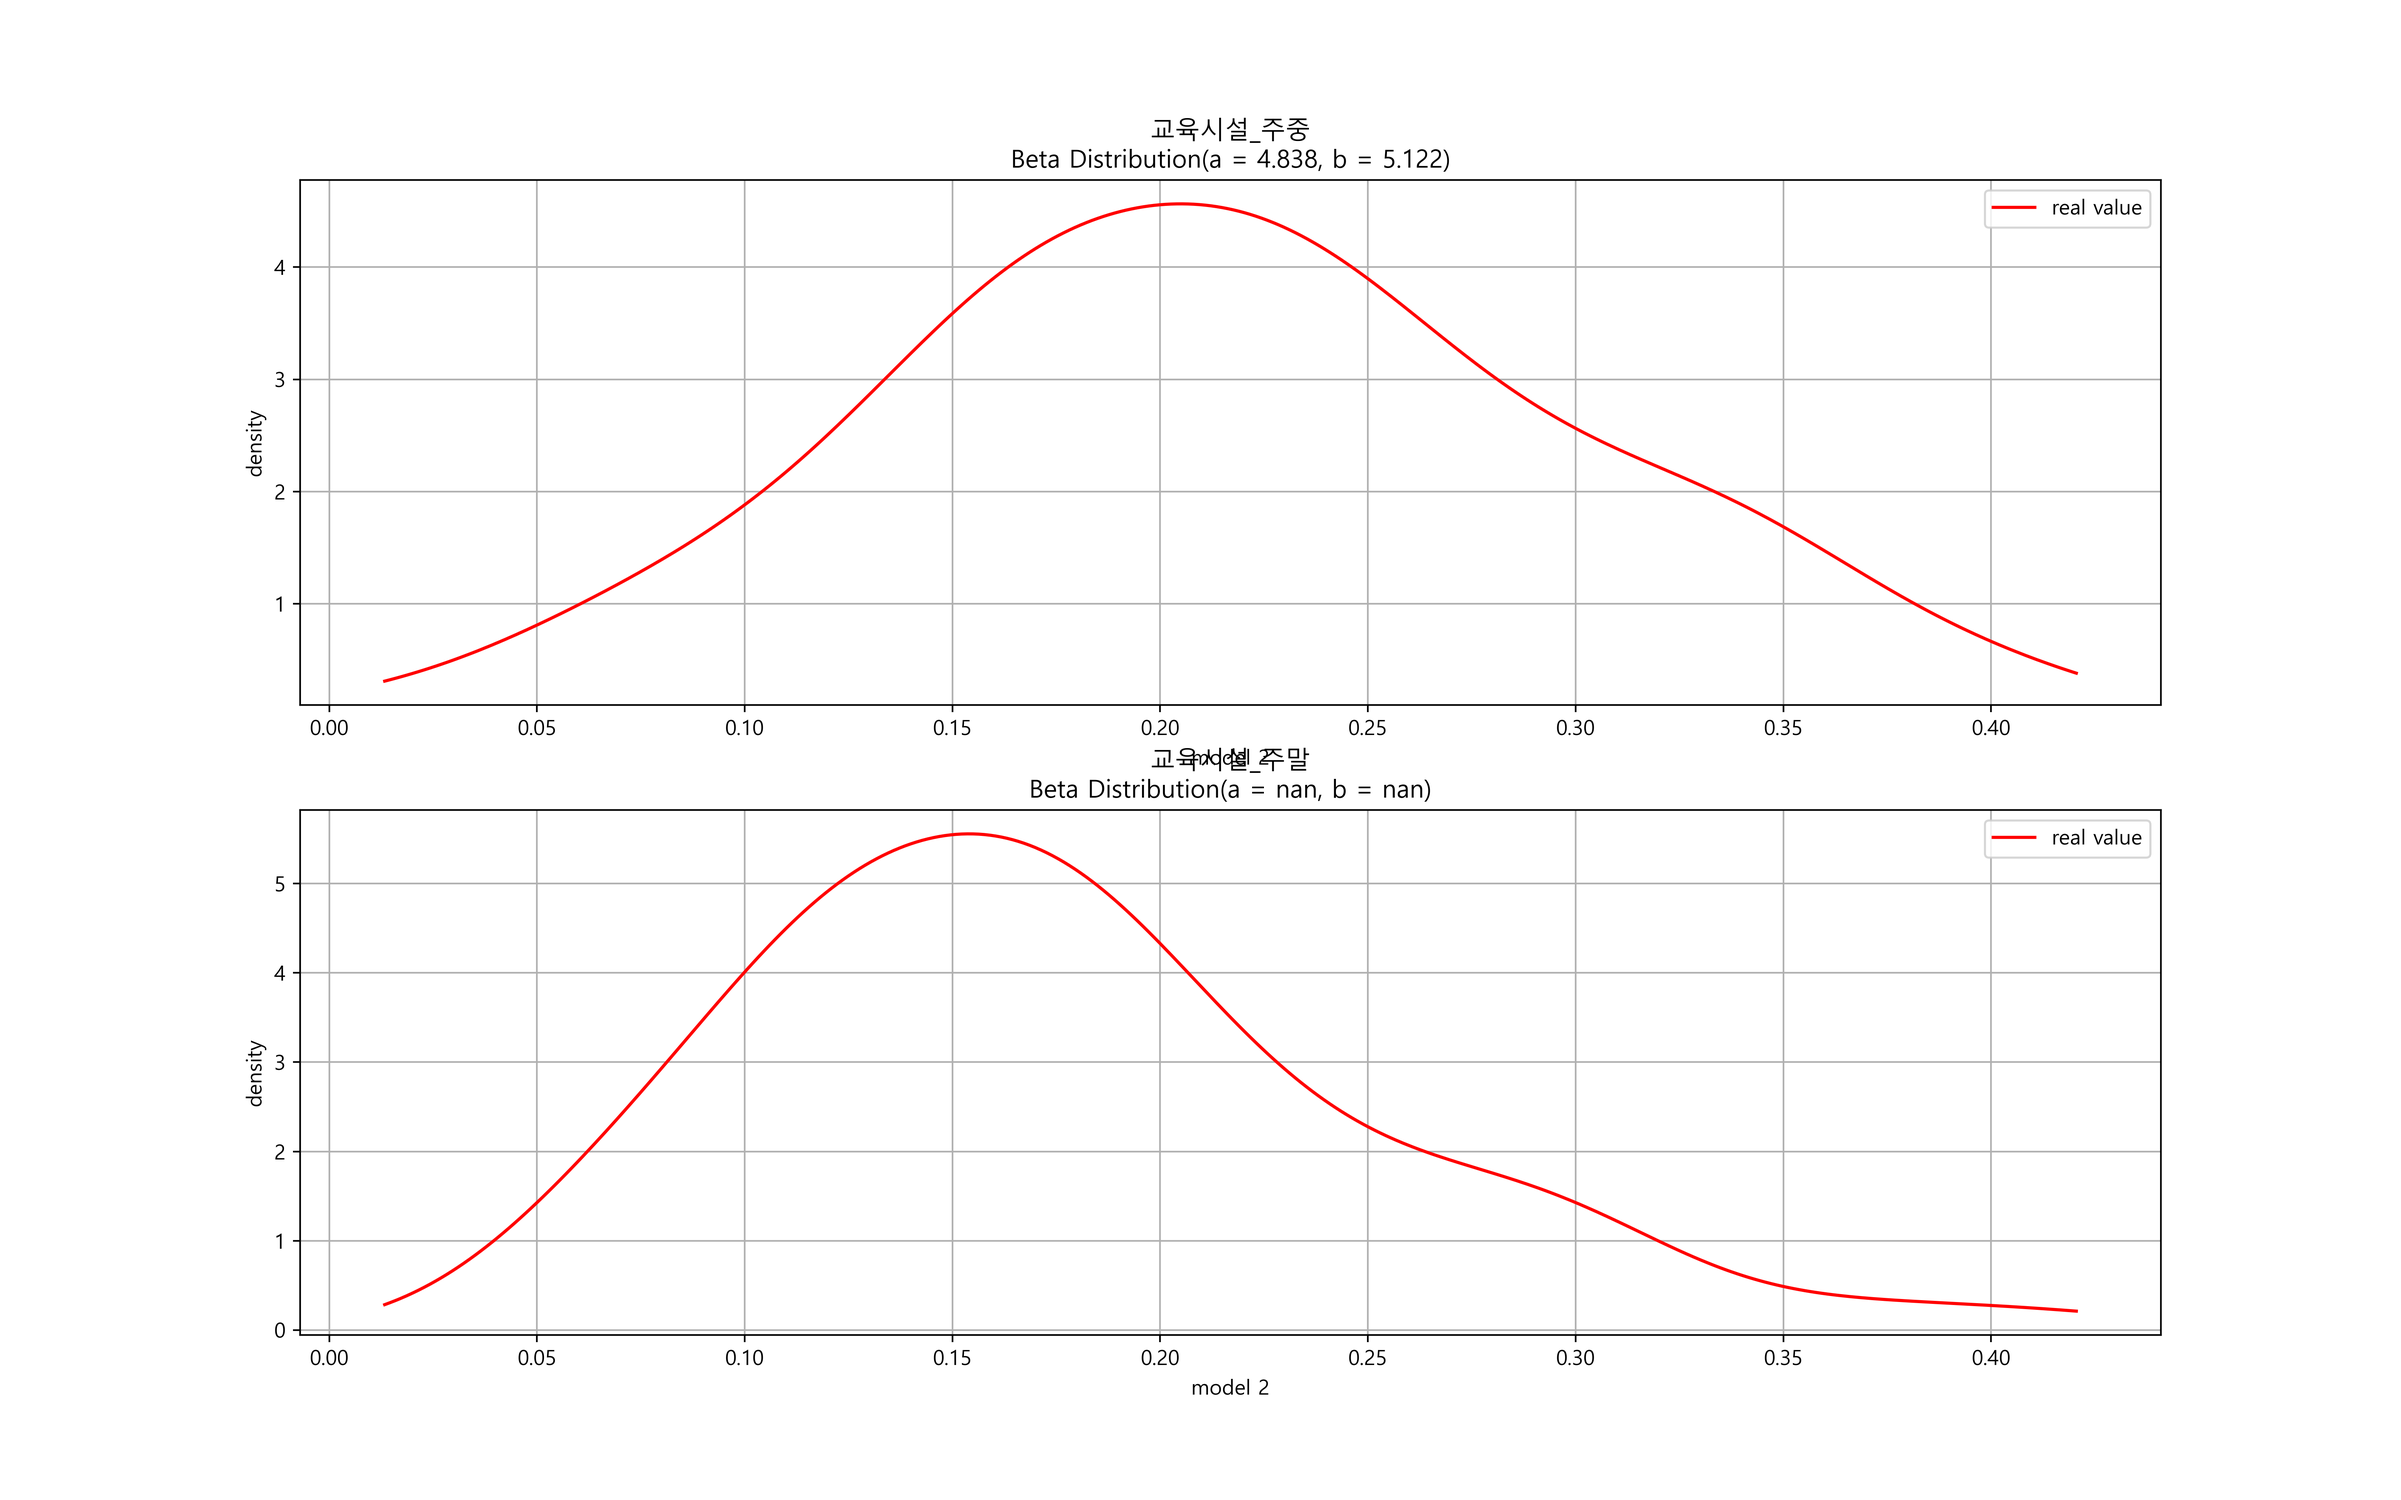
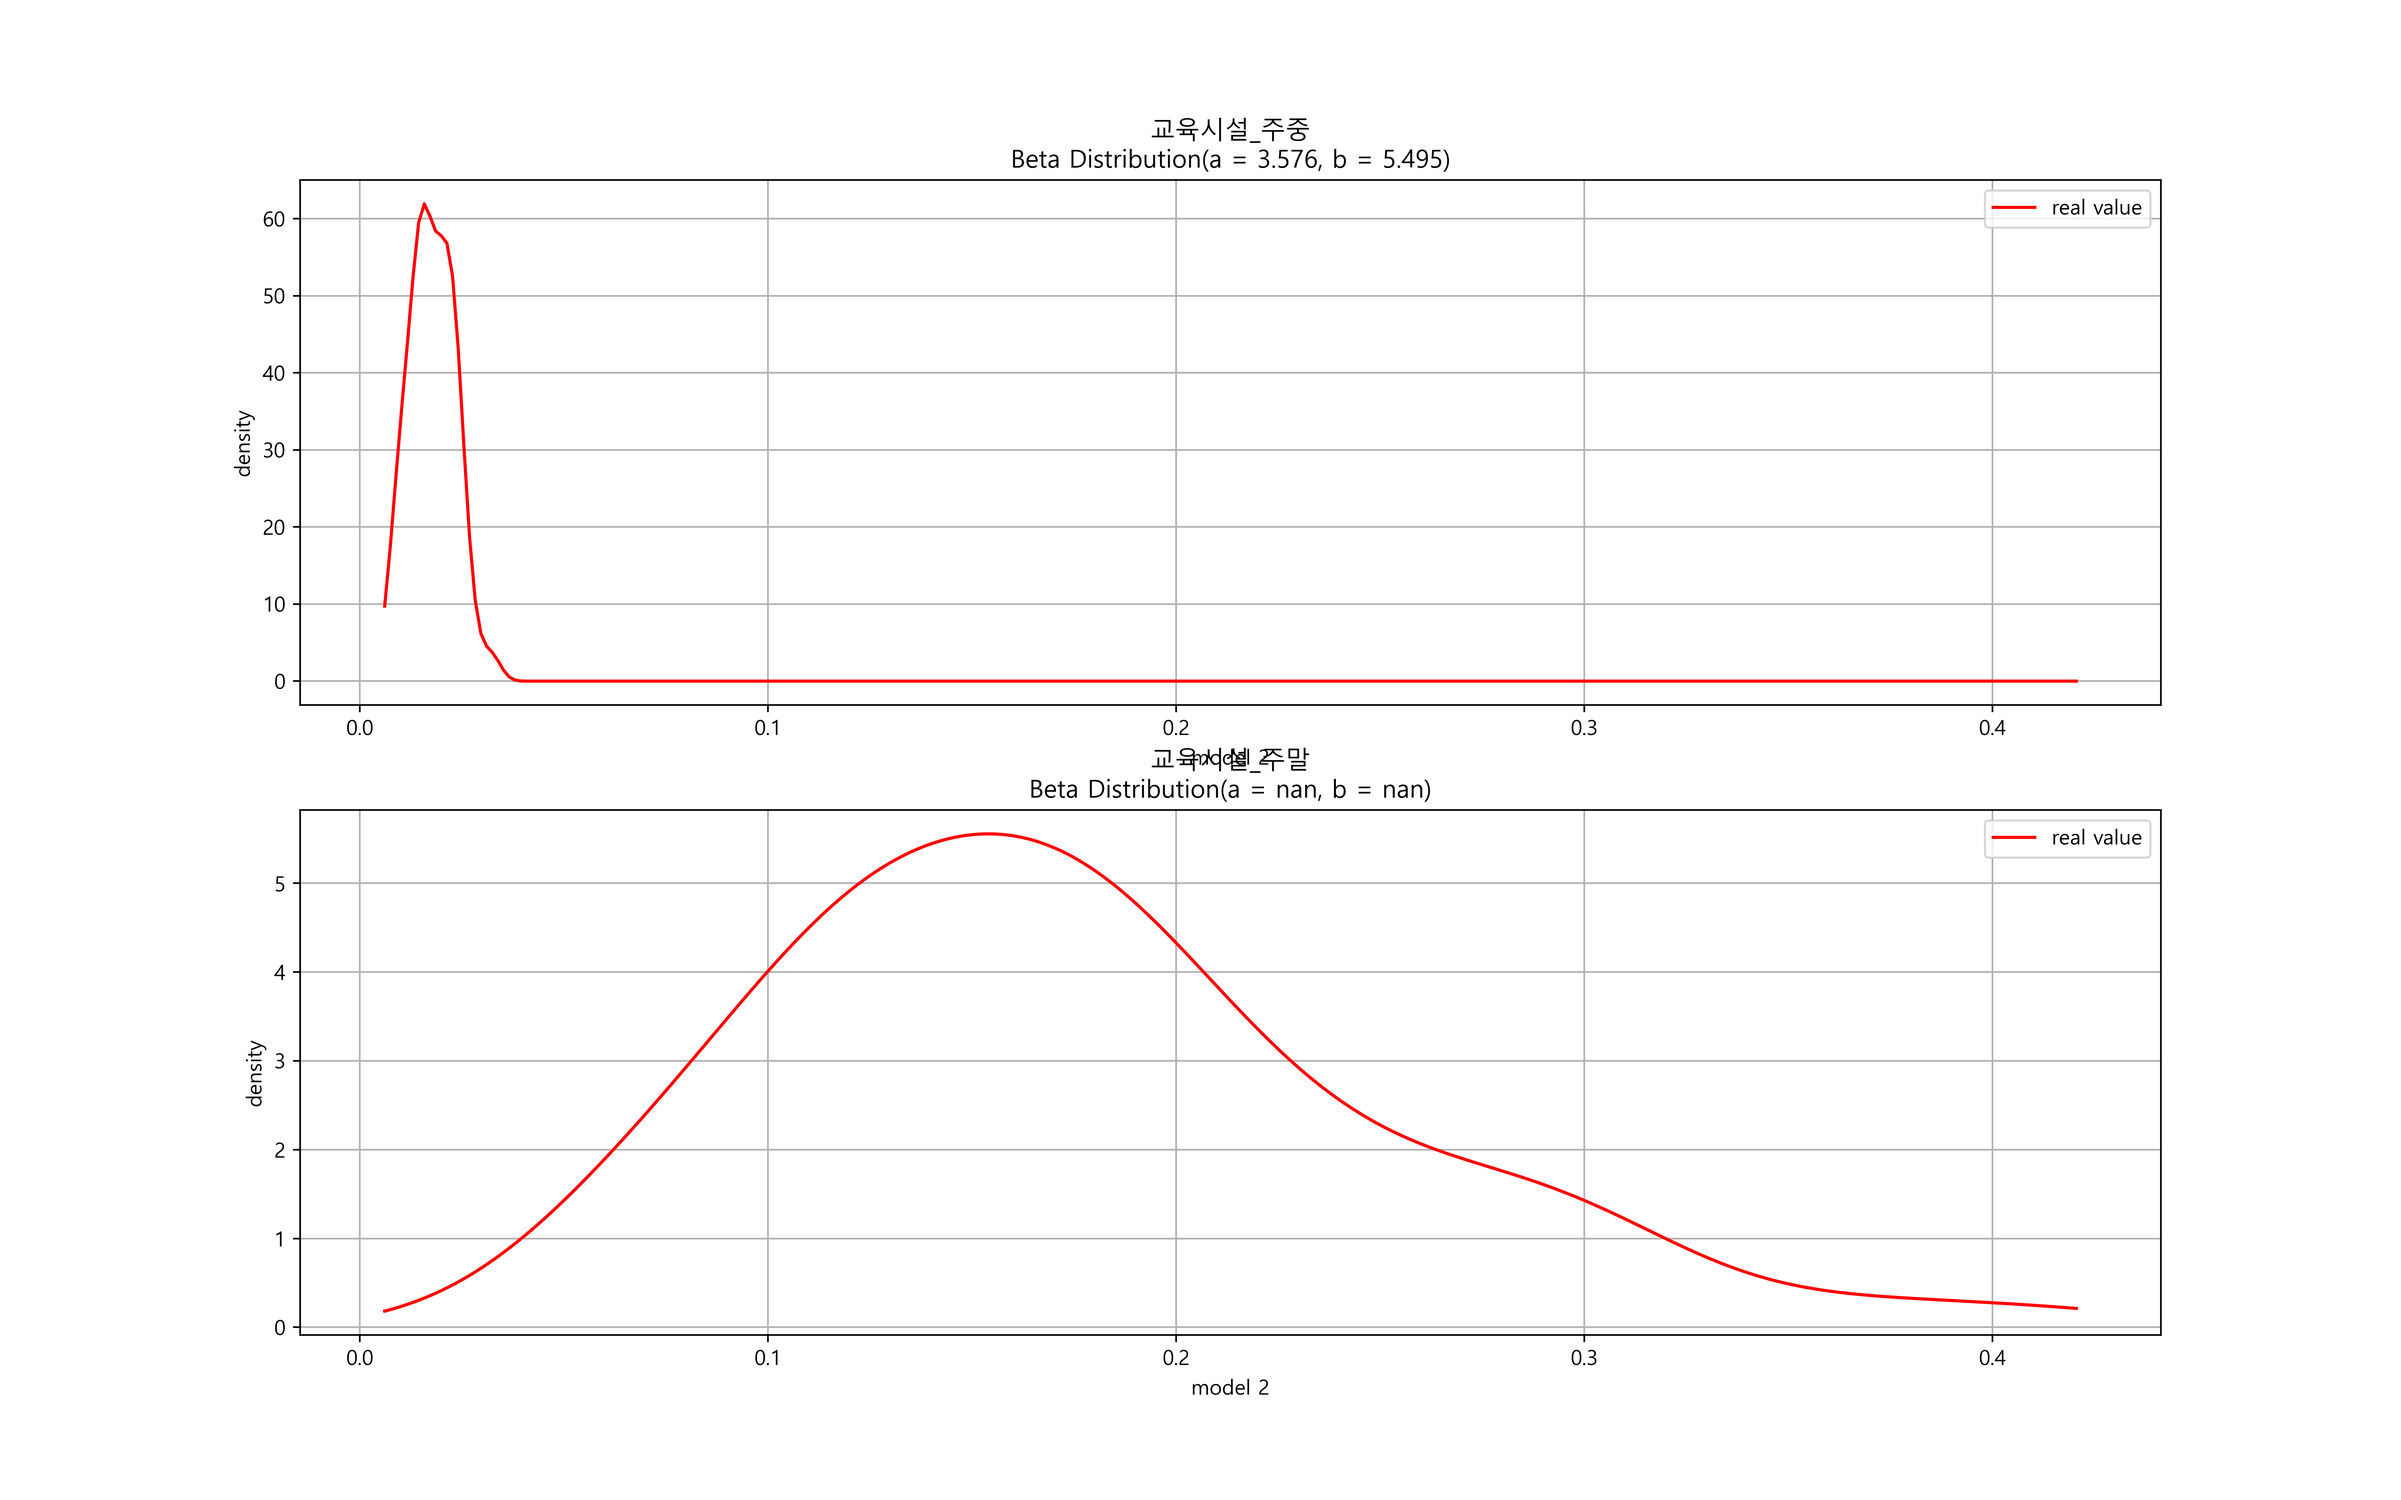
a

diff --git a/module/1_model/model_all_units_run.py b/module/1_model/model_all_units_run.py
@@ -45,7 +45,7 @@ use 'model_all_units.py' as one and only module
 import model_all_units as mu
 
 for facility in os.listdir(gp_dir) :
-	if facility == '문화시설' :
+	if facility != '판매및숙박' :
 		tdir = gp_dir + '\\' + facility
 		for group in range(2) :
 			print(facility, '\t', 'group number', group)
@@ -74,6 +74,7 @@ for facility in os.listdir(gp_dir) :
 			print('\nmodel_3 plotting')
 			mu.model3_plot(facility, group, model3_dir, plot_dir)
 			print('\nmodel_4 plotting')
+			
 			mu.model4_plot(facility, group, model4_dir, plot_dir)
 			mu.model1_compare(facility, group, model1_dir, plot_dir, nfc_dir)
 			mu.model2_compare(facility, group, model2_dir, plot_dir, nfc_dir)

diff --git a/module/1_model/model_all_units.py b/module/1_model/model_all_units.py
@@ -157,8 +157,8 @@ def model_2(facility_name, final_dir, model2_dir) :
 				temp = lib.read_excel(excel)
 				alllist = []
 				for i in range(temp.shape[0]) :
-					tempsum = temp.loc[i, :].sum()
-					alllist.append(tempsum)
+					for col in temp.columns :
+						alllist.append(temp.loc[i, col])
 	
 				temp_std = np.std(alllist)
 				df.loc[df_num, 'excel'] = excel
